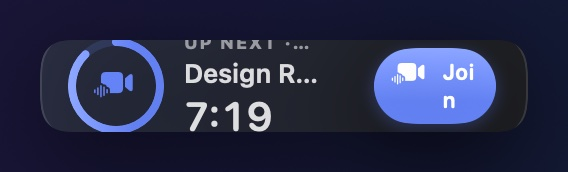
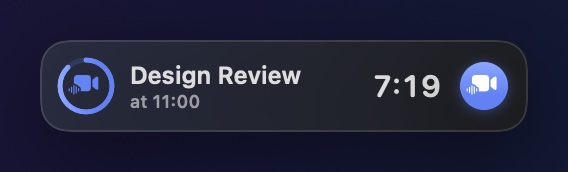
Fix mobile gutters and broken countdown panel images
- .hero and .prose reset horizontal padding to 0, so the hero and privacy
  text ran to the screen edge; use padding-block and a shared --gutter
  (20–32px) instead
- Mobile: roomier section spacing, edge-to-edge iPhone and filter-chip
  scrollers aligned to the gutter, stacked footer
- Replace the clipped panel screenshots with the clean ones from main's
  docs/screenshots

Changed region(s): [[0.0898, 0.2035, 0.8979, 0.7849], [0.0898, 0.7267, 0.1197, 0.7558]]

diff --git a/style.css b/style.css
@@ -8,6 +8,7 @@
   --accent-soft: #fff0ee;
   --link: #0a66d9;
   --shadow: 0 10px 30px rgba(0, 0, 0, 0.08);
+  --gutter: clamp(20px, 5.5vw, 32px);
   color-scheme: light dark;
 }
 
@@ -41,7 +42,8 @@ a:hover { text-decoration: underline; }
 
 img { max-width: 100%; height: auto; display: block; }
 
-.wrap { max-width: 1040px; margin: 0 auto; padding: 0 16px; }
+.wrap { max-width: 1040px; margin: 0 auto; padding-inline: var(--gutter); }
+.wrap.narrow { max-width: 760px; }
 .narrow { max-width: 720px; }
 
 /* Header */
@@ -54,7 +56,7 @@ img { max-width: 100%; height: auto; display: block; }
 .site-header nav a { color: var(--muted); }
 
 /* Hero */
-.hero { text-align: center; padding: 48px 0 32px; }
+.hero { text-align: center; padding-block: 48px 32px; }
 .hero .icon { width: 148px; margin: 0 auto 20px; filter: drop-shadow(0 12px 24px rgba(0,0,0,.18)); }
 .hero h1 { font-size: clamp(38px, 7vw, 60px); line-height: 1.05; letter-spacing: -0.03em; margin: 0 0 14px; }
 .hero .tagline { font-size: clamp(19px, 3vw, 23px); color: var(--muted); max-width: 640px; margin: 0 auto 28px; }
@@ -90,7 +92,7 @@ kbd { font: 600 13px/1 ui-monospace, SFMono-Regular, Menlo, monospace; padding: 
 .privacy-callout p { margin: 0 auto 12px; max-width: 620px; color: var(--muted); }
 
 /* Prose (privacy page) */
-.prose { padding: 24px 0 56px; }
+.prose { padding-block: 24px 56px; }
 .prose h1 { font-size: clamp(32px, 6vw, 44px); letter-spacing: -0.02em; line-height: 1.1; margin: 16px 0 6px; }
 .prose .updated { color: var(--muted); margin: 0 0 32px; }
 .prose h2 { font-size: 22px; margin: 36px 0 8px; }
@@ -134,7 +136,7 @@ code { overflow-wrap: anywhere; }
   .feature h2, .section-title { font-size: 25px; }
   .grid { grid-template-columns: minmax(0, 1fr); }
   .privacy-callout { padding: 24px 18px; }
-  .hero { padding: 28px 0 16px; }
+  .hero { padding-block: 28px 16px; }
   .hero .icon { width: 112px; }
   .hero .shot { margin-top: 32px; }
 }
@@ -354,4 +356,29 @@ code { overflow-wrap: anywhere; }
 @media (max-width: 420px) {
   .kinds { grid-template-columns: minmax(0, 1fr); }
   .hero-links .cta { width: 100%; }
+}
+
+/* ---------- Mobile polish ---------- */
+@media (max-width: 760px) {
+  section { padding-block: 36px; }
+  .feature { gap: 24px; }
+  .feature h2 { margin-bottom: 10px; }
+  .section-title { margin-bottom: 20px; }
+  .hero .tagline { font-size: 18px; line-height: 1.55; }
+  .card { padding: 18px 20px; }
+  .privacy-callout { padding: 28px 22px; border-radius: 18px; }
+  /* Edge-to-edge horizontal scrollers that still line up with the gutter */
+  .phones, .chips, .tabs-scroll { margin-inline: calc(-1 * var(--gutter)); padding-inline: var(--gutter); scroll-padding-inline: var(--gutter); width: auto; }
+  .phones { scrollbar-width: none; }
+  .phones::-webkit-scrollbar { display: none; }
+  .phones figure, .phones.four figure { flex-basis: 68%; }
+  .phones::after, .chips::after { content: ""; flex: 0 0 1px; }
+  .tab-panel { padding: 18px; }
+  .snippet pre { font-size: 12px; }
+  footer .wrap { flex-direction: column; gap: 10px; }
+}
+@media (max-width: 420px) {
+  .site-header nav { gap: 14px; }
+  .badges { gap: 6px; }
+  .hero .icon { width: 104px; }
 }

diff --git a/automations.html b/automations.html
@@ -14,7 +14,7 @@
   <meta property="og:description" content="Copy-and-paste prompts that let your AI assistant prep, run and follow up on your meetings.">
   <meta property="og:image" content="https://cadence.patrick-mckinley.com/assets/icon-512.png">
   <meta property="og:url" content="https://cadence.patrick-mckinley.com/automations.html">
-  <link rel="stylesheet" href="style.css?v=6">
+  <link rel="stylesheet" href="style.css?v=7">
 </head>
 <body>
   <header class="site-header">

diff --git a/index.html b/index.html
@@ -14,7 +14,7 @@
   <meta property="og:description" content="Your calendar, gently panicking on your behalf.">
   <meta property="og:image" content="https://cadence.patrick-mckinley.com/assets/takeover.jpg">
   <meta property="og:url" content="https://cadence.patrick-mckinley.com/">
-  <link rel="stylesheet" href="style.css?v=6">
+  <link rel="stylesheet" href="style.css?v=7">
 </head>
 <body>
   <header class="site-header">

diff --git a/privacy.html b/privacy.html
@@ -10,7 +10,7 @@
   <link rel="icon" type="image/png" sizes="32x32" href="favicon-32.png">
   <link rel="apple-touch-icon" href="apple-touch-icon.png">
   <link rel="manifest" href="site.webmanifest">
-  <link rel="stylesheet" href="style.css?v=6">
+  <link rel="stylesheet" href="style.css?v=7">
 </head>
 <body>
   <header class="site-header">
